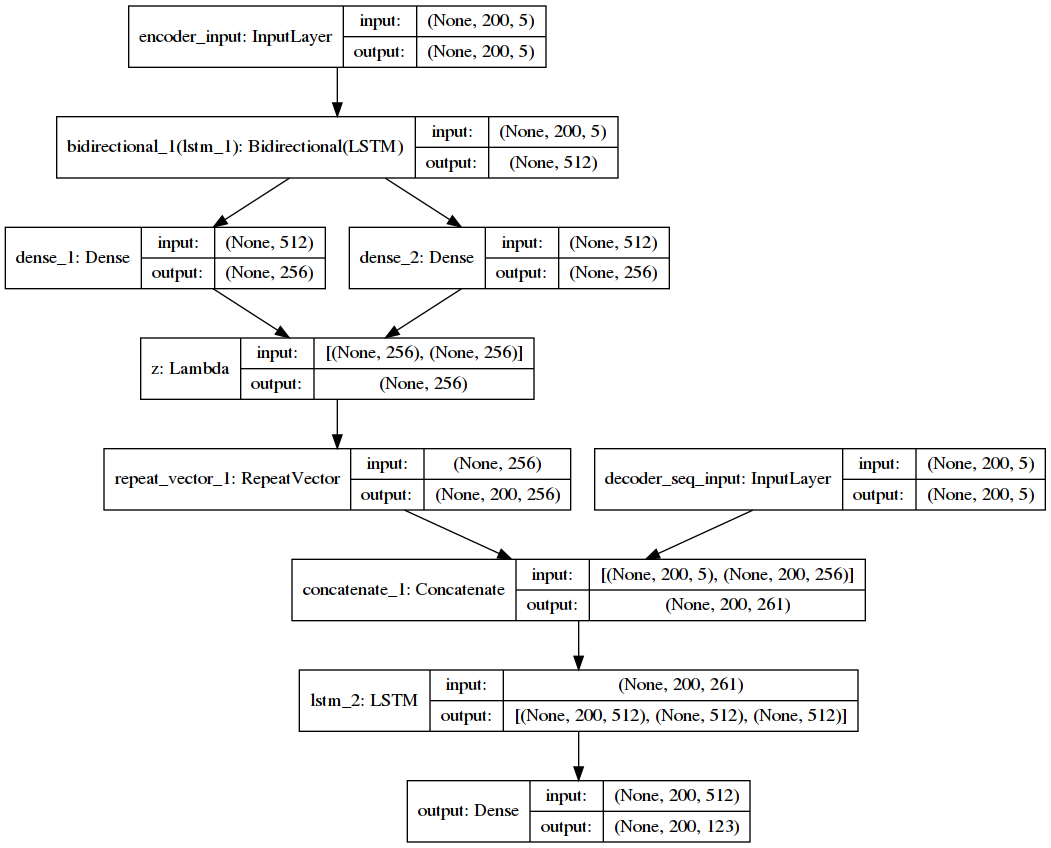
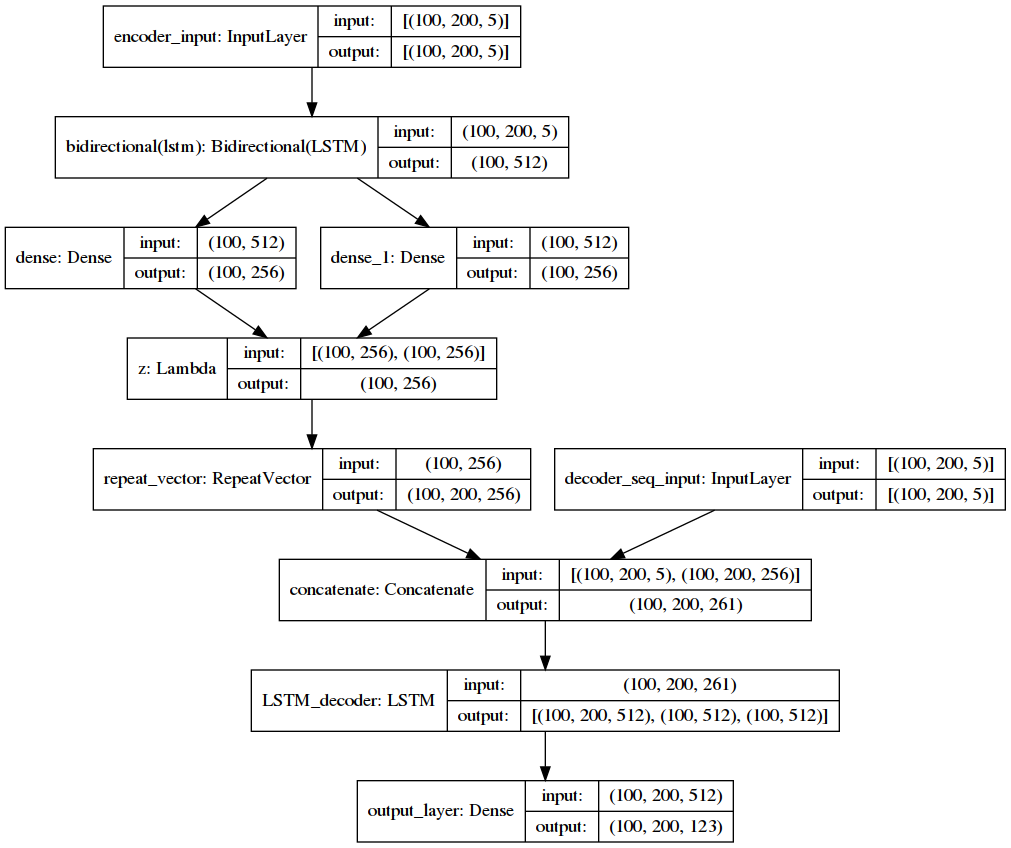
tf2.0 now works

diff --git a/src/train.py b/src/train.py
@@ -1,24 +1,17 @@
-from __future__ import absolute_import
-from __future__ import division
-from __future__ import print_function
-
 import data_Manager 
 from HyperParameters import HP
 import keras
 import matplotlib.pyplot as plt
 import train_utility as tu
-from keras.layers import Input, Dense, RepeatVector, Bidirectional, LSTM, Lambda, Concatenate
-from keras.models import Model
-from keras.optimizers import Adam
-from keras.utils import plot_model, Sequence
-from keras.callbacks import ModelCheckpoint, TensorBoard
-from keras import backend as K
 import tensorflow as tf
 
 # callback and data control
-KL_wheight_schedule = data_Manager.changing_KL_wheight()
-checkpointer = ModelCheckpoint(filepath='/tmp/weights.hdf5', verbose=1, save_best_only=True)
-tensorboard_callback = TensorBoard(log_dir="log")
+# callback that change the weight of the kl loss 
+KL_weight = tf.Variable(HP.wKL, name='kl_weight')
+KL_wheight_schedule = data_Manager.changing_KL_wheight(KL_weight)
+
+checkpointer = tf.keras.callbacks.ModelCheckpoint(filepath='/tmp/weights.hdf5', verbose=1, save_best_only=True)
+tensorboard_callback = tf.keras.callbacks.TensorBoard(log_dir="log")
 # import data
 datas = data_Manager.Data()
 # create the callback for data augmentaion during training
@@ -29,20 +22,20 @@ train_generator = data_Manager.DataGenerator(datas)
 Create the model
 """
 # build the encoder
-encoder_input = Input(shape = (HP.max_seq_length, HP.input_dimention), name = "encoder_input" )
+encoder_input = tf.keras.layers.Input(batch_shape = (HP.batch_size, HP.max_seq_length, HP.input_dimention), name = "encoder_input" )
 
-encoderLSTM = Bidirectional(LSTM(HP.enc_hidden_size, return_sequences=False,
+encoderLSTM = tf.keras.layers.Bidirectional(tf.keras.layers.LSTM(HP.enc_hidden_size, return_sequences=False,
     recurrent_dropout=HP.rec_dropout), merge_mode='concat')(encoder_input)
 
-hidden_state_mean = Dense(HP.latent_dim, activation='linear')(encoderLSTM)
+hidden_state_mean = tf.keras.layers.Dense(HP.latent_dim, activation='linear')(encoderLSTM)
 
-hidden_state_variance = Dense(HP.latent_dim, activation='linear')(encoderLSTM)
+hidden_state_variance = tf.keras.layers.Dense(HP.latent_dim, activation='linear')(encoderLSTM)
 
 # latent vaiable z 
-z = Lambda(tu.sampling, output_shape=(HP.latent_dim,), name='z')([hidden_state_mean, hidden_state_variance])
+z = tf.keras.layers.Lambda(tu.sampling, output_shape=(HP.latent_dim,), name='z')([hidden_state_mean, hidden_state_variance])
 
 # create the model with keras
-encoder = Model(encoder_input, [hidden_state_mean, hidden_state_variance, z], name='encoder')
+encoder = tf.keras.models.Model(encoder_input, [hidden_state_mean, hidden_state_variance, z], name='encoder')
 encoder.summary()
 #tf.keras.utils.plot_model(encoder, to_file='vae_mlp_encoder.png', show_shapes=True)
 
@@ -50,17 +43,17 @@ encoder.summary()
 DECODER 
 """
 # the decoder LSTM has an input composed by the sequence and also the hidden state
-decoder_input_sequence = Input(shape = (HP.max_seq_length, HP.input_dimention), name = "decoder_seq_input" )
+decoder_input_sequence = tf.keras.layers.Input(batch_shape = (HP.batch_size, HP.max_seq_length, HP.input_dimention), name = "decoder_seq_input" )
 # we have also the latent variable as input of the LSTM with the sequence
-inputLatentVariable = RepeatVector(HP.max_seq_length)(z)
+inputLatentVariable = tf.keras.layers.RepeatVector(HP.max_seq_length)(z)
 # so we concatentate the two vector
 # as input we have the two vector above concatenated
-totalInput = Concatenate()([decoder_input_sequence, inputLatentVariable])
+totalInput = tf.keras.layers.Concatenate()([decoder_input_sequence, inputLatentVariable])
 # Create LSTM for generation with input state = tanh(z)
-decoderLSTM = LSTM(HP.dec_hidden_size, recurrent_dropout=HP.rec_dropout, 
+decoderLSTM = tf.keras.layers.LSTM(HP.dec_hidden_size, recurrent_dropout=HP.rec_dropout, 
                                     return_sequences=True, return_state=True, name = "LSTM_decoder")
 #
-init_state = Dense(units=(2*decoderLSTM.units), activation='tanh', name = "decoder_init_stat")(z)
+init_state = tf.keras.layers.Dense(units=(2*decoderLSTM.units), activation='tanh', name = "decoder_init_stat")(z)
 h_0, c_0 = tf.split(init_state, num_or_size_splits=2, axis = 1)
 # creation of the LSTM
 decoder_output, _, _ = decoderLSTM(totalInput, initial_state = [h_0, c_0])
@@ -68,24 +61,24 @@ decoder_output, _, _ = decoderLSTM(totalInput, initial_state = [h_0, c_0])
 # dense to output. THe dimention is, as explained in the paper equal to 3 + 6*M
 # 6 times M= number of mixture 
 output_dimention = (3 + HP.M * 6)
-distribution_output = Dense(output_dimention, name = "output_layer")(decoder_output)
+distribution_output = tf.keras.layers.Dense(output_dimention, name = "output_layer")(decoder_output)
 
 # Build Keras model
-seq_to_seq_VAE = Model([encoder_input, decoder_input_sequence], distribution_output)
+seq_to_seq_VAE = tf.keras.models.Model([encoder_input, decoder_input_sequence], distribution_output)
 seq_to_seq_VAE.summary()
-plot_model(seq_to_seq_VAE, to_file='vae.png', show_shapes=True)
+tf.keras.utils.plot_model(seq_to_seq_VAE, to_file='vae.png', show_shapes=True)
 
-optimizer = Adam(lr = HP.lr, clipvalue= HP.grad_clip, 
+optimizer = tf.keras.optimizers.Adam(lr = HP.lr, clipvalue= HP.grad_clip, 
                 decay = HP.lr_decay, epsilon = HP.min_lr)
 
 reconstruction_loss = tu.reconstruction_loss(encoder_input, distribution_output)
 kl_loss = tu.kl_loss(hidden_state_mean, hidden_state_variance)
-KL_weight = K.variable(HP.wKL, name='kl_weight')
+
 kl_loss *= KL_weight
 seq_to_seq_VAE.add_loss(kl_loss)
 seq_to_seq_VAE.add_loss(reconstruction_loss)
 # compile the model
-seq_to_seq_VAE.compile(optimizer=optimizer, metrics= [kl_loss, reconstruction_loss])
+seq_to_seq_VAE.compile(optimizer=optimizer)
 """
 FIT
 """

diff --git a/src/train_utility.py b/src/train_utility.py
@@ -5,8 +5,8 @@ import os
 import tensorflow as tf
 import keras.backend as K
 from HyperParameters import HP
-from keras.losses import categorical_crossentropy
 import math as m
+import sys
 
 def sampling(args):
     """Reparameterization trick by sampling fr an isotropic unit Gaussian.
@@ -18,24 +18,23 @@ def sampling(args):
         z (tensor): sampled latent vector
     """
     z_mean, z_log_var = args
-    batch = K.shape(z_mean)[0]
-    dim = K.int_shape(z_mean)[1]
+    batch = HP.batch_size
+    dim = z_mean.shape[1]
     # by default, random_normal has mean=0 and std=1.0
-    epsilon = K.random_normal(shape=(batch, dim))
-    return z_mean + K.exp(0.5 * z_log_var) * epsilon
+    epsilon = tf.random.normal(shape=(batch, dim))
+    return z_mean + tf.math.exp(0.5 * z_log_var) * epsilon
 
     
 def kl_loss(hidden_state_mean, hidden_state_variance):
     # kl loss. 
-    kl_value = -0.5*K.mean(1+hidden_state_variance-K.square(hidden_state_mean)-K.exp(hidden_state_variance))
+    kl_value = -0.5*tf.math.reduce_mean(1+hidden_state_variance-tf.math.square(hidden_state_mean)-tf.math.exp(hidden_state_variance))
     # the paper introduce a minimum value for the kl loss 
-    return K.maximum(kl_value, HP.KL_min)
+    return tf.math.maximum(kl_value, HP.KL_min)
     
 def reconstruction_loss(y_true, output):
     # reconstruction loss. More complicated loss: 
     # 1. obtain the parameters for the distribution
     q, pi, mux, muy, sigmax, sigmay, ro = find_distribution_parameter(output)
-    #q = K.print_tensor(q, message = "q = ")
     # 2. find posterior for each mixture
     # 2.1 but first find dx, dy, p1, p2, p3 
     [dx, dy] = [y_true[:, :, 0], y_true[:, :, 1]]
@@ -45,20 +44,18 @@ def reconstruction_loss(y_true, output):
     # now we can obtgain the likelihood of the gaussian
     # first multiply by the Pi terms
     mixture_posterior_weighted = tf.math.multiply(mixture_posterior , pi)
-    epsilon = K.constant(1e-6)
-    _ = K.print_tensor(mixture_posterior_weighted, message='mixture_posterior_weighted = ')
-    _ = K.print_tensor(mixture_posterior, message='mixture_posterior = ')
+    epsilon = tf.constant(1e-6)
     # the loss due the dx, dy 
     # [100, 200, 1]
-    L_s = -K.log(K.sum(mixture_posterior_weighted, 2, keepdims=True) + epsilon )
+    L_s = -tf.math.log(tf.math.reduce_sum(mixture_posterior_weighted, 2, keepdims=True) + epsilon )
     
     #############################################
     # Now the loss due to the pen state. Classical cross entropy
-    L_p = categorical_crossentropy(penstates, q)
-    L_p = K.expand_dims(L_p)
+    L_p = tf.losses.categorical_crossentropy(penstates, q)
+    L_p = tf.expand_dims(L_p, -1)
     L_r = L_s + L_p
-    L_r = K.mean(L_r)
-    #L_r = K.print_tensor(L_r, message='L_r = ')
+    L_r = tf.reduce_mean(L_r)
+    #L_r = tf.print_tensor(L_r, message='L_r = ')
 
     return L_r
 
@@ -71,20 +68,20 @@ def misturegaussian(dx, dy, mux, muy, sigmax, sigmay, ro):
     """
     # first of all we have to compute dx - mux. In order to do it we have to 
     # rearrange the dx and dy tensors. We tile them M times, 1 for each mixture
-    dx_mux = K.tile(K.expand_dims(dx, -1), [1, 1, mux.shape[2]]) - mux
-    dy_muy = K.tile(K.expand_dims(dy, -1), [1, 1, mux.shape[2]]) - muy
+    dx_mux = tf.tile(tf.expand_dims(dx, -1), [1, 1, HP.M]) - mux
+    dy_muy = tf.tile(tf.expand_dims(dy, -1), [1, 1, HP.M]) - muy
 
     sigmax_times_sigmay = sigmax*sigmay
 
-    _ = K.print_tensor(tf.shape(dx_mux), message='K.min(dx_mux) = ')
+    #_ = K.print_tensor(tf.shape(dx_mux), message='K.min(dx_mux) = ')
     
     Z = tf.square(dx_mux/sigmax) + tf.square(dy_muy/sigmay) - (2.*(ro*(dx_mux)*(dy_muy)))/sigmax_times_sigmay
     one_minus_ro = (1. - tf.square(ro))
     log_mixture = -Z/(2.*one_minus_ro)
 
     # denominator
-    pi_times_t = 2*K.constant(m.pi)
-    denominator = pi_times_t*(sigmax_times_sigmay*K.sqrt(one_minus_ro))
+    pi_times_t = 2*tf.constant(m.pi)
+    denominator = pi_times_t*(sigmax_times_sigmay*tf.math.sqrt(one_minus_ro))
     mixture_final = tf.math.exp(log_mixture)/denominator
 
     return mixture_final
@@ -101,13 +98,13 @@ def find_distribution_parameter(output):
     [pi, mux, muy, sigmax, sigmay, ro] = distribution_parameter
     # normalize
     # sigma > 0 -> exp(sigma)
-    sigmax = K.exp(sigmax)
-    sigmay = K.exp(sigmay)
+    sigmax = tf.math.exp(sigmax)
+    sigmay = tf.math.exp(sigmay)
     # -1 < ro < 1 -> tanh
-    ro = K.tanh(ro)
+    ro = tf.math.tanh(ro)
     # logits and pi have to be a convex hull -> softmax
-    pi = K.softmax(pi)
-    logit = K.softmax(logit)
+    pi = tf.math.softmax(pi)
+    logit = tf.math.softmax(logit)
     return logit, pi, mux, muy, sigmax, sigmay, ro
     
 

diff --git a/src/data_Manager.py b/src/data_Manager.py
@@ -5,7 +5,6 @@ import numpy as np
 from HyperParameters import HP
 import tensorflow as tf
 import keras
-from keras.utils import Sequence
 import keras.backend as K
 from keras.callbacks import Callback
 
@@ -76,7 +75,7 @@ class Data():
 
 
 # see https://keras.io/utils/ for more info
-class DataGenerator(Sequence):
+class DataGenerator(tf.keras.utils.Sequence):
     'Generates data for Keras'
     def __init__(self, Data, shuffle=True):
         'Initialization'
@@ -115,14 +114,19 @@ class DataGenerator(Sequence):
         return strokes     
 
 class changing_KL_wheight(Callback):
-    def __init__(self, verbose = 1, mu_min = 0.01):
+    def __init__(self, kl_weight, verbose = 1, mu_min = 0.01):
         super(Callback, self).__init__()
+        self.kl_wheight = kl_weight
         self.verbose = verbose
         self.curr_mu = 0
-        self.steps = 0
 
-    def on_epoch_start(self, epochs, logs = {}):
-        self.curr_mu = 1 - (1-HP.eta_min)*HP.R**self.steps
+    def on_epoch_begin(self, epochs, logs = {}):
+        self.curr_mu = 1 - (1-HP.eta_min)*HP.R**epochs
         New_wheight_kl = (self.curr_mu)*HP.wKL
-        K.set_value(KL_weight, New_wheight_kl)
-        self.steps += 1
+        self.kl_wheight.assign(New_wheight_kl)
+
+    def on_train_batch_begin(self, epochs, logs = {}):
+        pass
+
+    def on_train_batch_end(self, epochs, logs = {}):
+        pass
